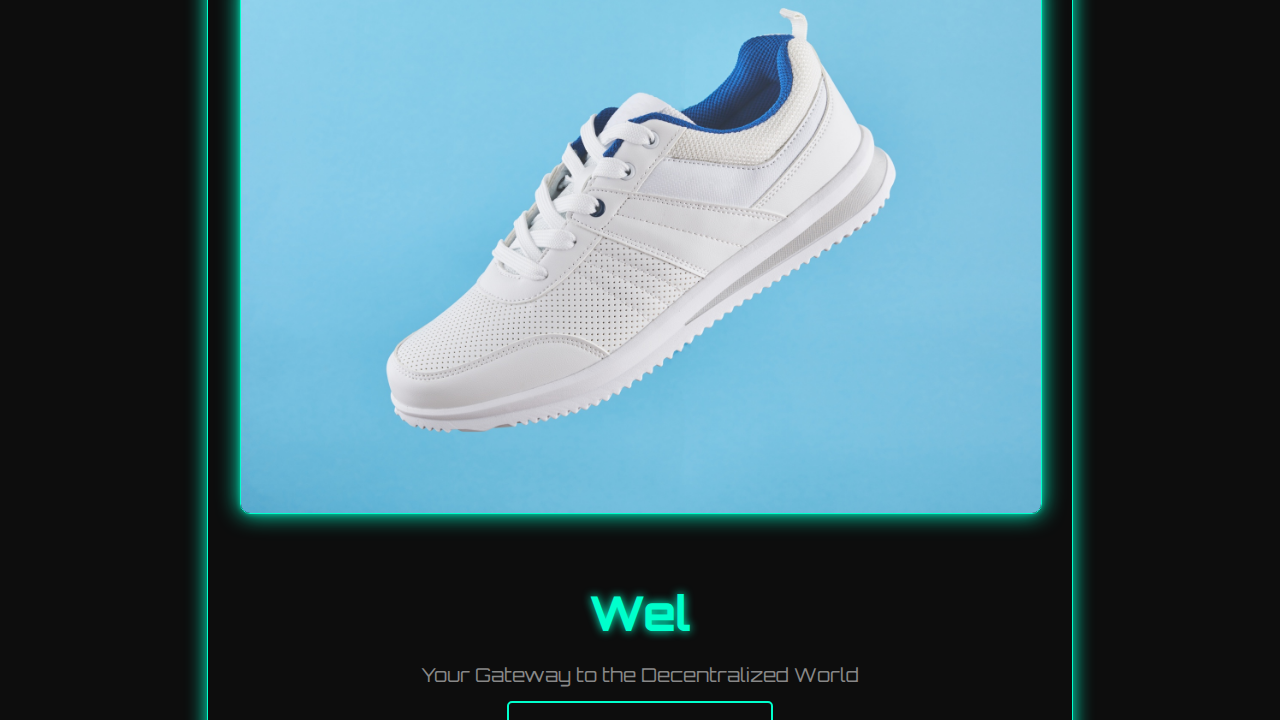
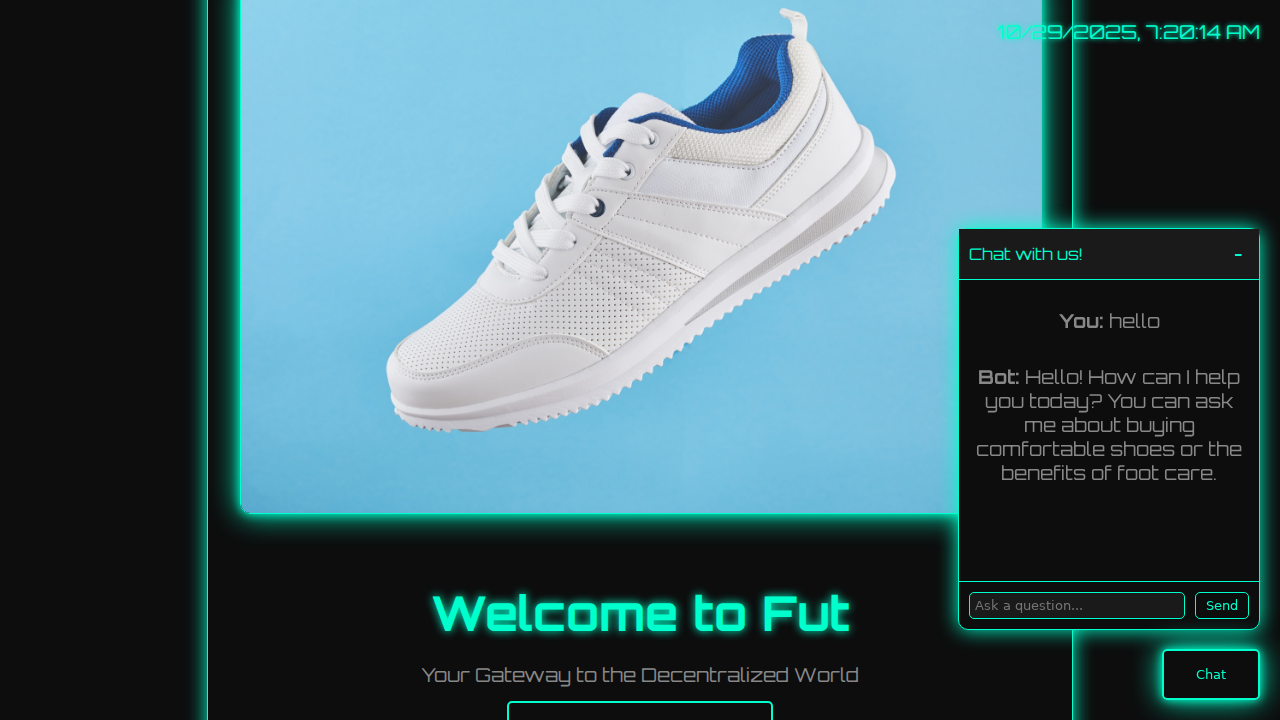
feat: Add date/time display and chatbot
Adds a real-time date and time display to the top-right corner of the page.
Implements a new chatbot feature with a futuristic UI. The chatbot can answer questions about shoe comfort and foot care based on a predefined knowledge base.

Changed region(s): [[0.1875, 0.0, 1.0, 1.0], [0.3125, 0.7944, 0.6875, 0.8861], [0.1562, 0.0, 0.1875, 0.7028]]

diff --git a/script.js b/script.js
@@ -10,4 +10,75 @@ function type() {
     }
 }
 
-document.addEventListener('DOMContentLoaded', type);
+function updateDateTime() {
+    const now = new Date();
+    const dateTimeString = now.toLocaleString();
+    document.getElementById('datetime-container').textContent = dateTimeString;
+}
+
+document.addEventListener('DOMContentLoaded', () => {
+    type();
+    updateDateTime();
+    setInterval(updateDateTime, 1000);
+});
+
+const openChatbotButton = document.getElementById('open-chatbot');
+const closeChatbotButton = document.getElementById('close-chatbot');
+const chatbotContainer = document.getElementById('chatbot-container');
+const chatbotMessages = document.getElementById('chatbot-messages');
+const chatbotInput = document.getElementById('chatbot-input');
+const chatbotSubmit = document.getElementById('chatbot-submit');
+
+const knowledgeBase = {
+    "how do I buy comfortable shoes?": "When buying shoes, look for good arch support, a cushioned insole, and a wide toe box. Make sure there's about half an inch of space between your longest toe and the end of the shoe. It's best to shop for shoes in the afternoon when your feet are slightly swollen.",
+    "what are the benefits of caring for my feet?": "Good foot care can prevent common problems like blisters, calluses, and fungal infections. It can also improve your posture and reduce strain on your back and knees. Regularly massaging your feet can also improve circulation and reduce stress.",
+    "how often should I replace my shoes?": "For running or athletic shoes, it's recommended to replace them every 300-500 miles. For casual shoes, replace them when you see visible signs of wear and tear, or when they no longer feel supportive.",
+    "what kind of socks are best?": "Moisture-wicking socks made from materials like wool, nylon, or polyester are best for keeping your feet dry and preventing blisters. Avoid 100% cotton socks, as they retain moisture.",
+    "hello": "Hello! How can I help you today? You can ask me about buying comfortable shoes or the benefits of foot care."
+};
+
+function addMessage(message, sender) {
+    const messageElement = document.createElement('p');
+    messageElement.innerHTML = `<strong>${sender}:</strong> ${message}`;
+    chatbotMessages.appendChild(messageElement);
+    chatbotMessages.scrollTop = chatbotMessages.scrollHeight;
+}
+
+function getBotResponse(userInput) {
+    const lowercasedInput = userInput.toLowerCase().trim();
+    if (knowledgeBase[lowercasedInput]) {
+        return knowledgeBase[lowercasedInput];
+    }
+    for (const key in knowledgeBase) {
+        if (lowercasedInput.includes(key.split(' ')[0])) {
+             return knowledgeBase[key];
+        }
+    }
+    return "I'm sorry, I don't have an answer for that. Please ask me about buying comfortable shoes or the benefits of foot care.";
+}
+
+function handleUserInput() {
+    const userInput = chatbotInput.value;
+    if (userInput.trim() === '') return;
+
+    addMessage(userInput, 'You');
+    const botResponse = getBotResponse(userInput);
+    setTimeout(() => addMessage(botResponse, 'Bot'), 500);
+
+    chatbotInput.value = '';
+}
+
+openChatbotButton.addEventListener('click', () => {
+    chatbotContainer.style.display = 'flex';
+});
+
+closeChatbotButton.addEventListener('click', () => {
+    chatbotContainer.style.display = 'none';
+});
+
+chatbotSubmit.addEventListener('click', handleUserInput);
+chatbotInput.addEventListener('keypress', (event) => {
+    if (event.key === 'Enter') {
+        handleUserInput();
+    }
+});

diff --git a/style.css b/style.css
@@ -67,3 +67,86 @@ p {
         box-shadow: 0 0 30px #00ffcc, 0 0 10px #00ffcc;
     }
 }
+
+#datetime-container {
+    font-size: 1.2rem;
+    text-shadow: 0 0 5px #00ffcc;
+    position: absolute;
+    top: 20px;
+    right: 20px;
+}
+
+#open-chatbot {
+    position: fixed;
+    bottom: 20px;
+    right: 20px;
+    background-color: transparent;
+    border: 2px solid #00ffcc;
+    color: #00ffcc;
+    padding: 1rem 2rem;
+    border-radius: 5px;
+    cursor: pointer;
+    animation: glow 2s infinite alternate;
+}
+
+#chatbot-container {
+    display: none;
+    position: fixed;
+    bottom: 90px;
+    right: 20px;
+    width: 300px;
+    height: 400px;
+    background-color: #0d0d0d;
+    border: 1px solid #00ffcc;
+    border-radius: 10px;
+    box-shadow: 0 0 20px #00ffcc;
+    flex-direction: column;
+}
+
+#chatbot-header {
+    background-color: #1a1a1a;
+    padding: 10px;
+    border-bottom: 1px solid #00ffcc;
+    display: flex;
+    justify-content: space-between;
+    align-items: center;
+}
+
+#close-chatbot {
+    background: none;
+    border: none;
+    color: #00ffcc;
+    font-size: 1.5rem;
+    cursor: pointer;
+}
+
+#chatbot-messages {
+    flex-grow: 1;
+    padding: 10px;
+    overflow-y: auto;
+}
+
+#chatbot-input-container {
+    display: flex;
+    padding: 10px;
+    border-top: 1px solid #00ffcc;
+}
+
+#chatbot-input {
+    flex-grow: 1;
+    background-color: #1a1a1a;
+    border: 1px solid #00ffcc;
+    color: #00ffcc;
+    padding: 5px;
+    border-radius: 5px;
+}
+
+#chatbot-submit {
+    background-color: transparent;
+    border: 1px solid #00ffcc;
+    color: #00ffcc;
+    margin-left: 10px;
+    padding: 5px 10px;
+    border-radius: 5px;
+    cursor: pointer;
+}

diff --git a/index.html b/index.html
@@ -7,6 +7,7 @@
     <link rel="stylesheet" href="style.css">
 </head>
 <body>
+    <div id="datetime-container"></div>
     <div class="container">
         <header>
             <img src="https://res.cloudinary.com/dguzb0u6h/image/upload/v1761720017/cld-sample-5.jpg" alt="Futuristic cityscape" class="header-image">
@@ -17,6 +18,20 @@
             <a href="#" class="cta-button">Explore the Future</a>
         </main>
     </div>
+
+    <div id="chatbot-container">
+        <div id="chatbot-header">
+            <span>Chat with us!</span>
+            <button id="close-chatbot">-</button>
+        </div>
+        <div id="chatbot-messages"></div>
+        <div id="chatbot-input-container">
+            <input type="text" id="chatbot-input" placeholder="Ask a question...">
+            <button id="chatbot-submit">Send</button>
+        </div>
+    </div>
+    <button id="open-chatbot">Chat</button>
+
     <script src="script.js"></script>
 </body>
 </html>

diff --git a/jules-scratch/verification/verify_chatbot.py b/jules-scratch/verification/verify_chatbot.py
@@ -1,0 +1,25 @@
+import os
+from playwright.sync_api import sync_playwright, expect
+
+def run(playwright):
+    browser = playwright.chromium.launch()
+    page = browser.new_page()
+    page.goto(f"file://{os.getcwd()}/index.html")
+
+    # Check for date and time display
+    expect(page.locator("#datetime-container")).to_be_visible()
+
+    # Open the chatbot
+    page.click("#open-chatbot")
+    expect(page.locator("#chatbot-container")).to_be_visible()
+
+    # Interact with the chatbot
+    page.fill("#chatbot-input", "hello")
+    page.click("#chatbot-submit")
+    expect(page.locator("text=Bot: Hello! How can I help you today?")).to_be_visible()
+
+    page.screenshot(path="jules-scratch/verification/verification.png")
+    browser.close()
+
+with sync_playwright() as playwright:
+    run(playwright)
